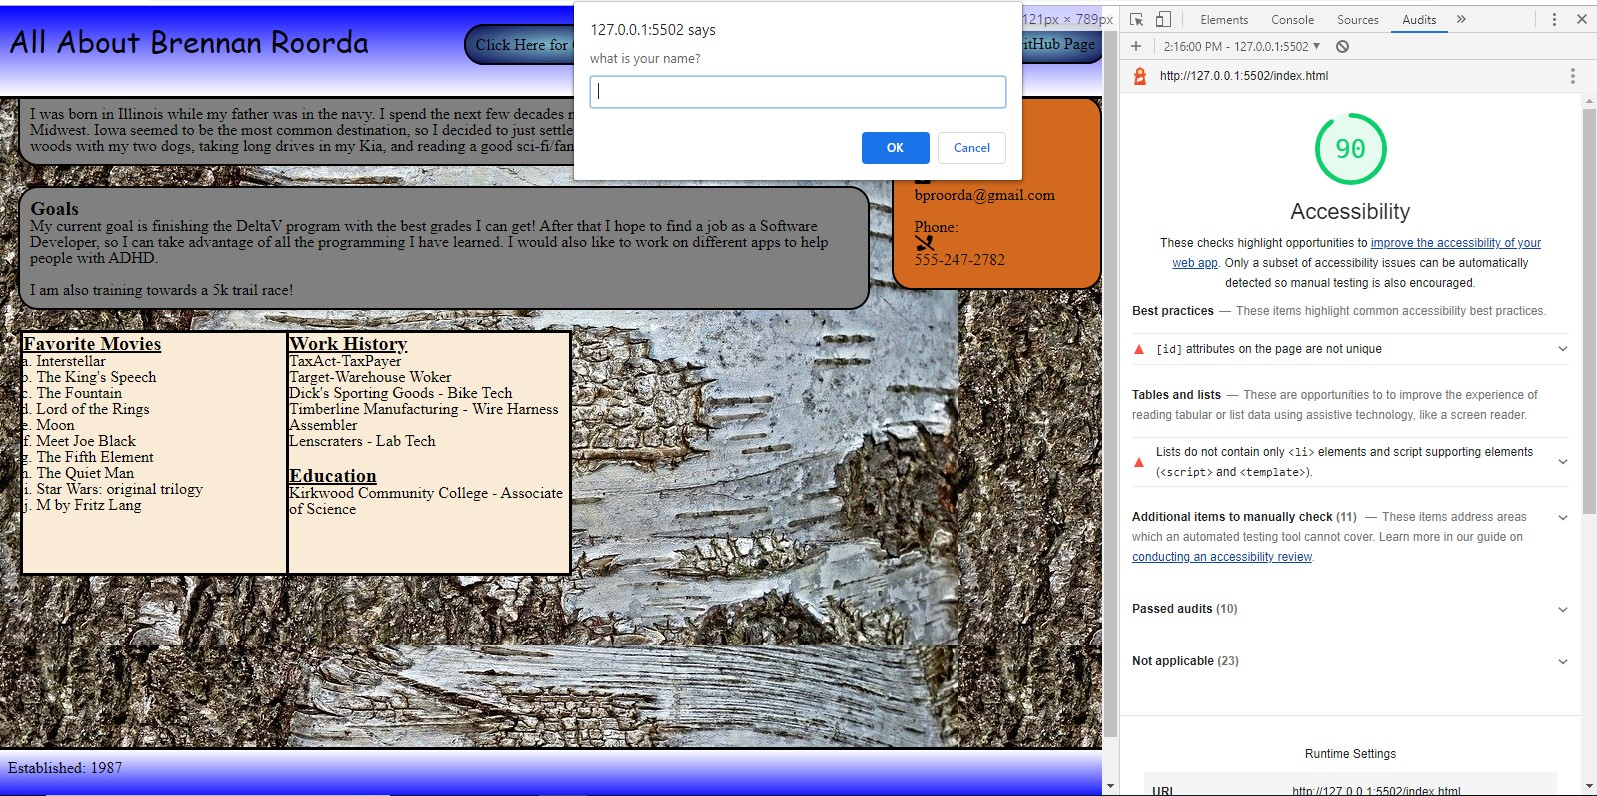
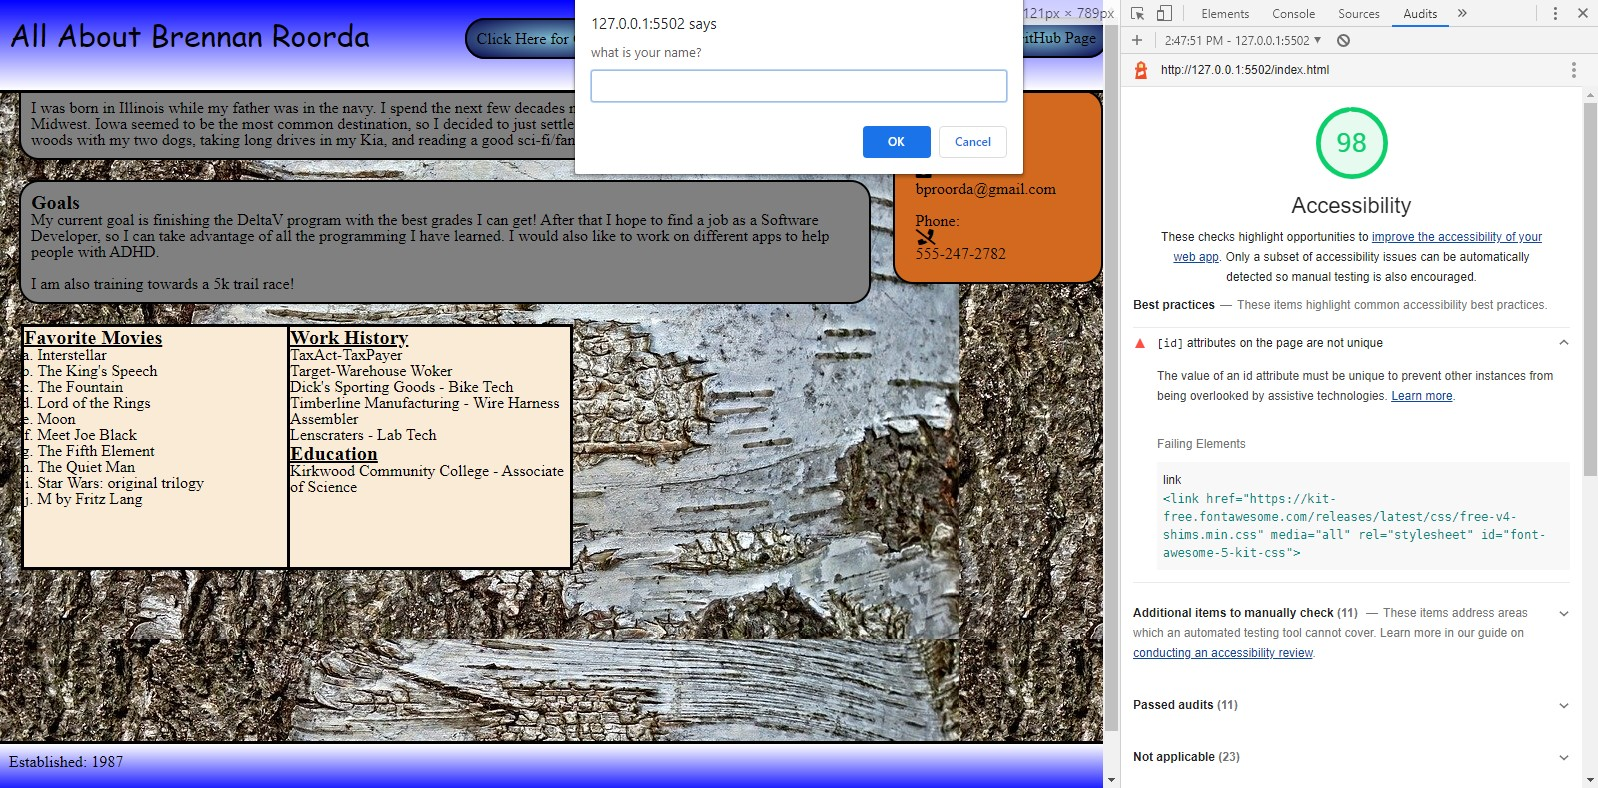
Updated accessibility image with higher score and added more semantics to HTML

diff --git a/index.html b/index.html
@@ -1,5 +1,6 @@
 <!DOCTYPE html>
 <html lang="en-us">
+
 <head>
     <meta charset="utf-8">
     <meta http-equiv="X-UA-Compatible" content="IE=edge">
@@ -28,33 +29,32 @@
     </header>
 
     <main>
-            <section class="bio">
-                <h2>Bio</h2>
-                <p>I am currently a developer student at DeltaV Code School in Cedar Rapids, IA! I am enjoying greatly
-                    and cannot wait for the opportunity to utilize what I am learning.
-                    <br> <br>
-                    I was born in Illinois while my father was in the navy. I spend the next few decades moving from
-                    state to state, most in the Midwest. Iowa seemed to be the most common destination, so I decided to
-                    just settle here! I enjoy exploring and hiking in the woods with my two dogs, taking long drives in
-                    my Kia, and reading a good sci-fi/fantasy book.
-                </p>
+        <section class="bio">
+            <h2>Bio</h2>
+            <p>I am currently a developer student at DeltaV Code School in Cedar Rapids, IA! I am enjoying greatly
+                and cannot wait for the opportunity to utilize what I am learning.
+                <br> <br>
+                I was born in Illinois while my father was in the navy. I spend the next few decades moving from
+                state to state, most in the Midwest. Iowa seemed to be the most common destination, so I decided to
+                just settle here! I enjoy exploring and hiking in the woods with my two dogs, taking long drives in
+                my Kia, and reading a good sci-fi/fantasy book.
+            </p>
+        </section>
 
-            </section>
-            <section class="bio">
-                <h2>Goals</h2>
-                <p>My current goal is finishing the DeltaV program with the best grades I can get! After that I hope to
-                    find a job as a Software Developer, so I can take advantage of all the programming I have learned. I
-                    would also like to work on different apps to help people with ADHD.
-                    <br> <br>
-                    I am also training towards a 5k trail race!
-                </p>
-
-            </section>
+        <section class="bio">
+            <h2>Goals</h2>
+            <p>My current goal is finishing the DeltaV program with the best grades I can get! After that I hope to
+                find a job as a Software Developer, so I can take advantage of all the programming I have learned. I
+                would also like to work on different apps to help people with ADHD.
+                <br> <br>
+                I am also training towards a 5k trail race!
+            </p>
+        </section>
 
         <table>
             <tr>
                 <td>
-                    <p class="bignbold">Favorite Movies</p>
+                    <h3 class="bignbold">Favorite Movies</h3>
                     <ol>
                         <!-- <li class="bignbold">Favorite Movies</li> -->
                         <li>Interstellar</li>
@@ -70,15 +70,16 @@
                     </ol>
                 </td>
                 <td>
-                    <p class="bignbold">Work History</p>
+                    <h3 class="bignbold">Work History</h3>
                     <ul>
                         <li>TaxAct-TaxPayer</li>
                         <li>Target-Warehouse Woker</li>
                         <li>Dick's Sporting Goods - Bike Tech</li>
                         <li>Timberline Manufacturing - Wire Harness Assembler</li>
                         <li>Lenscraters - Lab Tech</li>
-                        <br>
-                        <li class="bignbold">Education</li>
+                    </ul>
+                        <h3 class="bignbold">Education</h3>
+                    <ul>
                         <li>Kirkwood Community College - Associate of Science</li>
                     </ul>
                 </td>
